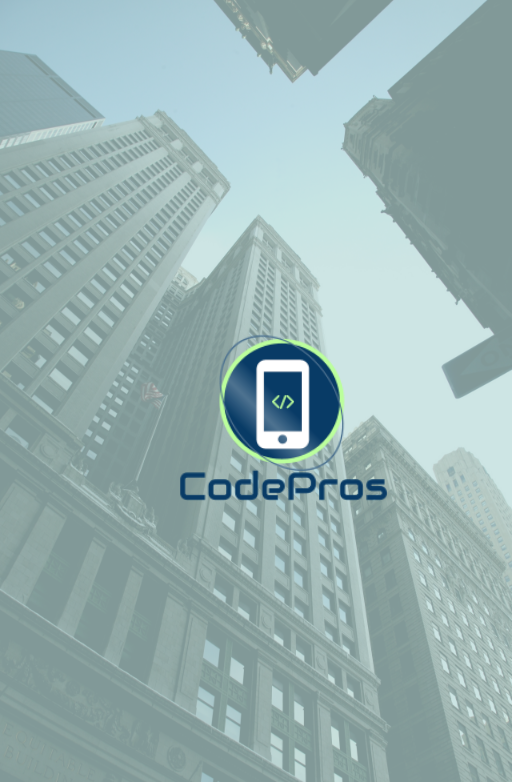
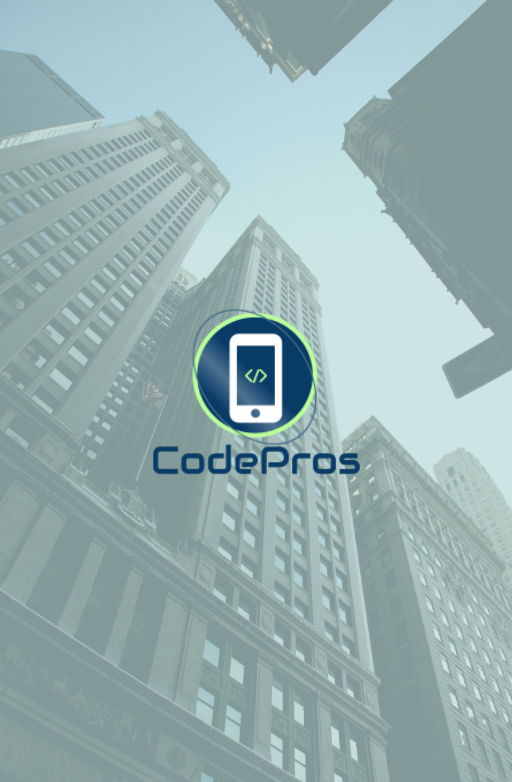
Login main page UI adjusted

Changed region(s): [[0.2812, 0.399, 0.75, 0.6445]]

diff --git a/src/app/pages/login/login.component.html b/src/app/pages/login/login.component.html
@@ -1,71 +1,56 @@
 <div class="container">
-  <div class="row justify-contents-center row-height" >
+  <div class="row justify-contents-center row-height">
     <div class="col-md-12 div-container">
       <div class="col-md-6 img-div">
-        <img src="assets/bgmain.png"  alt="background-main" class="img-height">
+        <img src="assets/bgmain.png" alt="background-main" class="img-height">
       </div>
       <div class="col-md-6 right-div">
-          <div class="col-md-auto logo-div"  >
-            <img class="logo" src="assets/logo-medium.png" />
-            <span class="title">ProHub</span>
-          </div>
+        <div class="col-md-auto logo-div">
+          <img class="logo" src="assets/logo-medium.png"/>
+          <span class="title">ProHub</span>
+        </div>
         <div class="col-md-auto blue-underline"></div>
         <div class="col-md-auto"><h3 class="subTitle">Manage Property Like a Pro</h3></div>
-          <div  class="form-div" >
-            <form [formGroup]="loginForm" class="col-md-auto form" >
-            <div class="col-md-12" >
-              <mat-form-field appearance="outline" class="col-md-12">
+        <div class="form-div">
+          <form [formGroup]="loginForm" class="col-md-auto form">
+            <div class="col-md-12 centre-input">
+              <mat-form-field appearance="outline" class="col-md-10">
                 <mat-label>Username</mat-label>
                 <input formControlName="userName" matInput placeholder="Username">
                 <mat-error *ngIf="formControls.userName.invalid">Please enter username.</mat-error>
               </mat-form-field>
             </div>
-              <div class="col-md-12">
-                <div class="checkbox-div">
-                  <mat-checkbox>Remember me (NOT IMPLEMENTED)</mat-checkbox>
-                </div>
-              </div>
             <div class="col-md-12">
-              <mat-form-field appearance="outline" class="col-md-12" style="padding-bottom:0 ">
+              <div class="checkbox-div">
+                <mat-checkbox>Remember me (NOT IMPLEMENTED)</mat-checkbox>
+              </div>
+            </div>
+            <div class="col-md-12 centre-input">
+              <mat-form-field appearance="outline" class="col-md-10" style="padding-bottom:0 ">
                 <mat-label>Password</mat-label>
-                <input formControlName="password" matInput maxlength="64" [type]="hide ? 'password' : 'text'" placeholder="Password">
-                <button mat-icon-button matSuffix (click)="hide = !hide" [attr.aria-label]="'Hide password'" [attr.aria-pressed]="hide">
+                <input formControlName="password" matInput maxlength="64" [type]="hide ? 'password' : 'text'"
+                       placeholder="Password">
+                <button mat-icon-button matSuffix (click)="hide = !hide" [attr.aria-label]="'Hide password'"
+                        [attr.aria-pressed]="hide">
                   <mat-icon>{{hide ? 'visibility_off' : 'visibility'}}</mat-icon>
                 </button>
                 <mat-error *ngIf="formControls.password.invalid">Please enter a password.</mat-error>
               </mat-form-field>
             </div>
-            </form>
-          </div>
-          <div class="div-center"><button  mat-button color="primary"  (click)="forgotPasswordDialog()">Forgot Password?</button></div>
-          <div class="div-center"> <button class="btn-login" mat-raised-button (click)="login()">LOGIN</button></div>
-          <div class="btn-center">Don't have an account?  <button mat-button color="primary" (click)="openRegistration()">SIGN UP</button></div>
+          </form>
+        </div>
+        <div class="div-center">
+          <button mat-button color="primary" (click)="forgotPasswordDialog()">Forgot Password?</button>
+        </div>
+        <div class="div-center">
+          <button class="btn-login" mat-raised-button (click)="login()">LOGIN</button>
+        </div>
+        <div class="btn-center">Don't have an account?
+          <button mat-button color="primary" (click)="openRegistration()">SIGN UP</button>
+        </div>
+      </div>
     </div>
   </div>
-  </div>
+  <div style="display: flex; justify-content: center; margin-top: 20px;"><h5>&copy; Copyright CodePros {{getYear()}}.
+    All rights reserved.</h5></div>
 </div>
-<div style="display: flex;justify-content: center"><h5>ProHub 2020 | All rights reserved</h5></div>
-
-<!--<table>-->
-<!--  <thead>-->
-<!--  <tr>-->
-<!--    <th>User First Name</th>-->
-<!--    <th>User Last Name</th>-->
-<!--    <th>Phone</th>-->
-<!--  </tr>-->
-<!--  </thead>-->
-
-<!--  <tbody>-->
-<!--  <tr *ngFor="let user of users">-->
-<!--    <td>-->
-<!--      {{user.firstname}}-->
-<!--    </td>-->
-<!--    <td>-->
-<!--      {{user.lastname}}-->
-<!--    </td>-->
-<!--    <td>-->
-<!--      {{user.phone}}-->
-<!--    </td>-->
-<!--  </tr>-->
-<!--  </tbody>-->
-<!--</table>-->

diff --git a/src/app/pages/login/login.component.ts b/src/app/pages/login/login.component.ts
@@ -1,14 +1,14 @@
-import { Component, OnInit } from '@angular/core';
-import { ActivatedRoute, Router } from '@angular/router';
-import { FormBuilder, FormGroup, Validators } from '@angular/forms';
-import { MatDialog, MatDialogRef } from '@angular/material/dialog';
-import { FirebaseService } from '../../shared-services/firebase.service';
-import { AuthService } from '../../shared-services/auth.service';
-import { Observable } from 'rxjs';
-import { AngularFireDatabase } from '@angular/fire/database';
-import { EmailVerificationDialogComponent } from '../registration/email-verification-dialog/email-verification-dialog.component';
-import { ForgotPasswordDialogComponent } from './forgot-password-dialog/forgot-password-dialog.component';
-import { UserPasswordService } from '../../shared-services/user-password.service';
+import {Component, OnInit} from '@angular/core';
+import {ActivatedRoute, Router} from '@angular/router';
+import {FormBuilder, FormGroup, Validators} from '@angular/forms';
+import {MatDialog, MatDialogRef} from '@angular/material/dialog';
+import {FirebaseService} from '../../shared-services/firebase.service';
+import {AuthService} from '../../shared-services/auth.service';
+import {Observable} from 'rxjs';
+import {AngularFireDatabase} from '@angular/fire/database';
+import {EmailVerificationDialogComponent} from '../registration/email-verification-dialog/email-verification-dialog.component';
+import {ForgotPasswordDialogComponent} from './forgot-password-dialog/forgot-password-dialog.component';
+import {UserPasswordService} from '../../shared-services/user-password.service';
 
 @Component({
   selector: 'app-login',
@@ -24,7 +24,8 @@ export class LoginComponent implements OnInit {
     public firebaseService: FirebaseService,
     public userPasswordService: UserPasswordService,
     public authService: AuthService
-  ) {}
+  ) {
+  }
 
   get formControls() {
     return this.loginForm.controls;
@@ -35,6 +36,13 @@ export class LoginComponent implements OnInit {
   users;
   units: Observable<any[]>;
   userByPhone: Observable<any[]>;
+  date: Date = new Date();
+  year: number;
+
+  getYear() {
+    this.year = this.date.getFullYear();
+    return this.year;
+  }
 
   ngOnInit(): void {
     this.getloginForm();

diff --git a/src/app/pages/login/login.component.scss b/src/app/pages/login/login.component.scss
@@ -9,13 +9,17 @@
   width: 100%;
   background-color: #7abaff;
   padding: 0;
-
 }
 
 .container {
   width: 1024px;
-  height: 782px;
-  padding: 3.75rem;
+  height: 700px;
+  position: absolute;
+  top: 0;
+  bottom: 0;
+  left: 0;
+  right: 0;
+  margin: auto;
 }
 
 .div-container {
@@ -57,7 +61,7 @@
 .right-div {
   display: flex;
   flex-direction: column;
-  padding-top: 3%;
+  padding-top: 5%;
   width: 100%;
   height: 100%;
 }
@@ -83,8 +87,14 @@
   display: flex;
   flex-direction: column;
   justify-content: center;
-  margin-top: 7%;
+  margin-top: 60px;
+  margin-bottom: 20px;
   width: 100%
+}
+
+.centre-input {
+  display: flex;
+  justify-content: center;
 }
 
 ::ng-deep .mat-checkbox-checked.mat-accent .mat-checkbox-ripple .mat-ripple-element {
@@ -99,7 +109,7 @@
 .checkbox-div {
   display: flex;
   margin-left: auto;
-  margin-right: 12px;
+  margin-right: 45px;
   justify-content: right;
   width: 260px;
 }
@@ -108,7 +118,7 @@
   display: flex;
   justify-content: center;
   margin-bottom: 5px;
-  margin-top: 0;
+  margin-top: 20px;
 }
 
 .btn-center {
